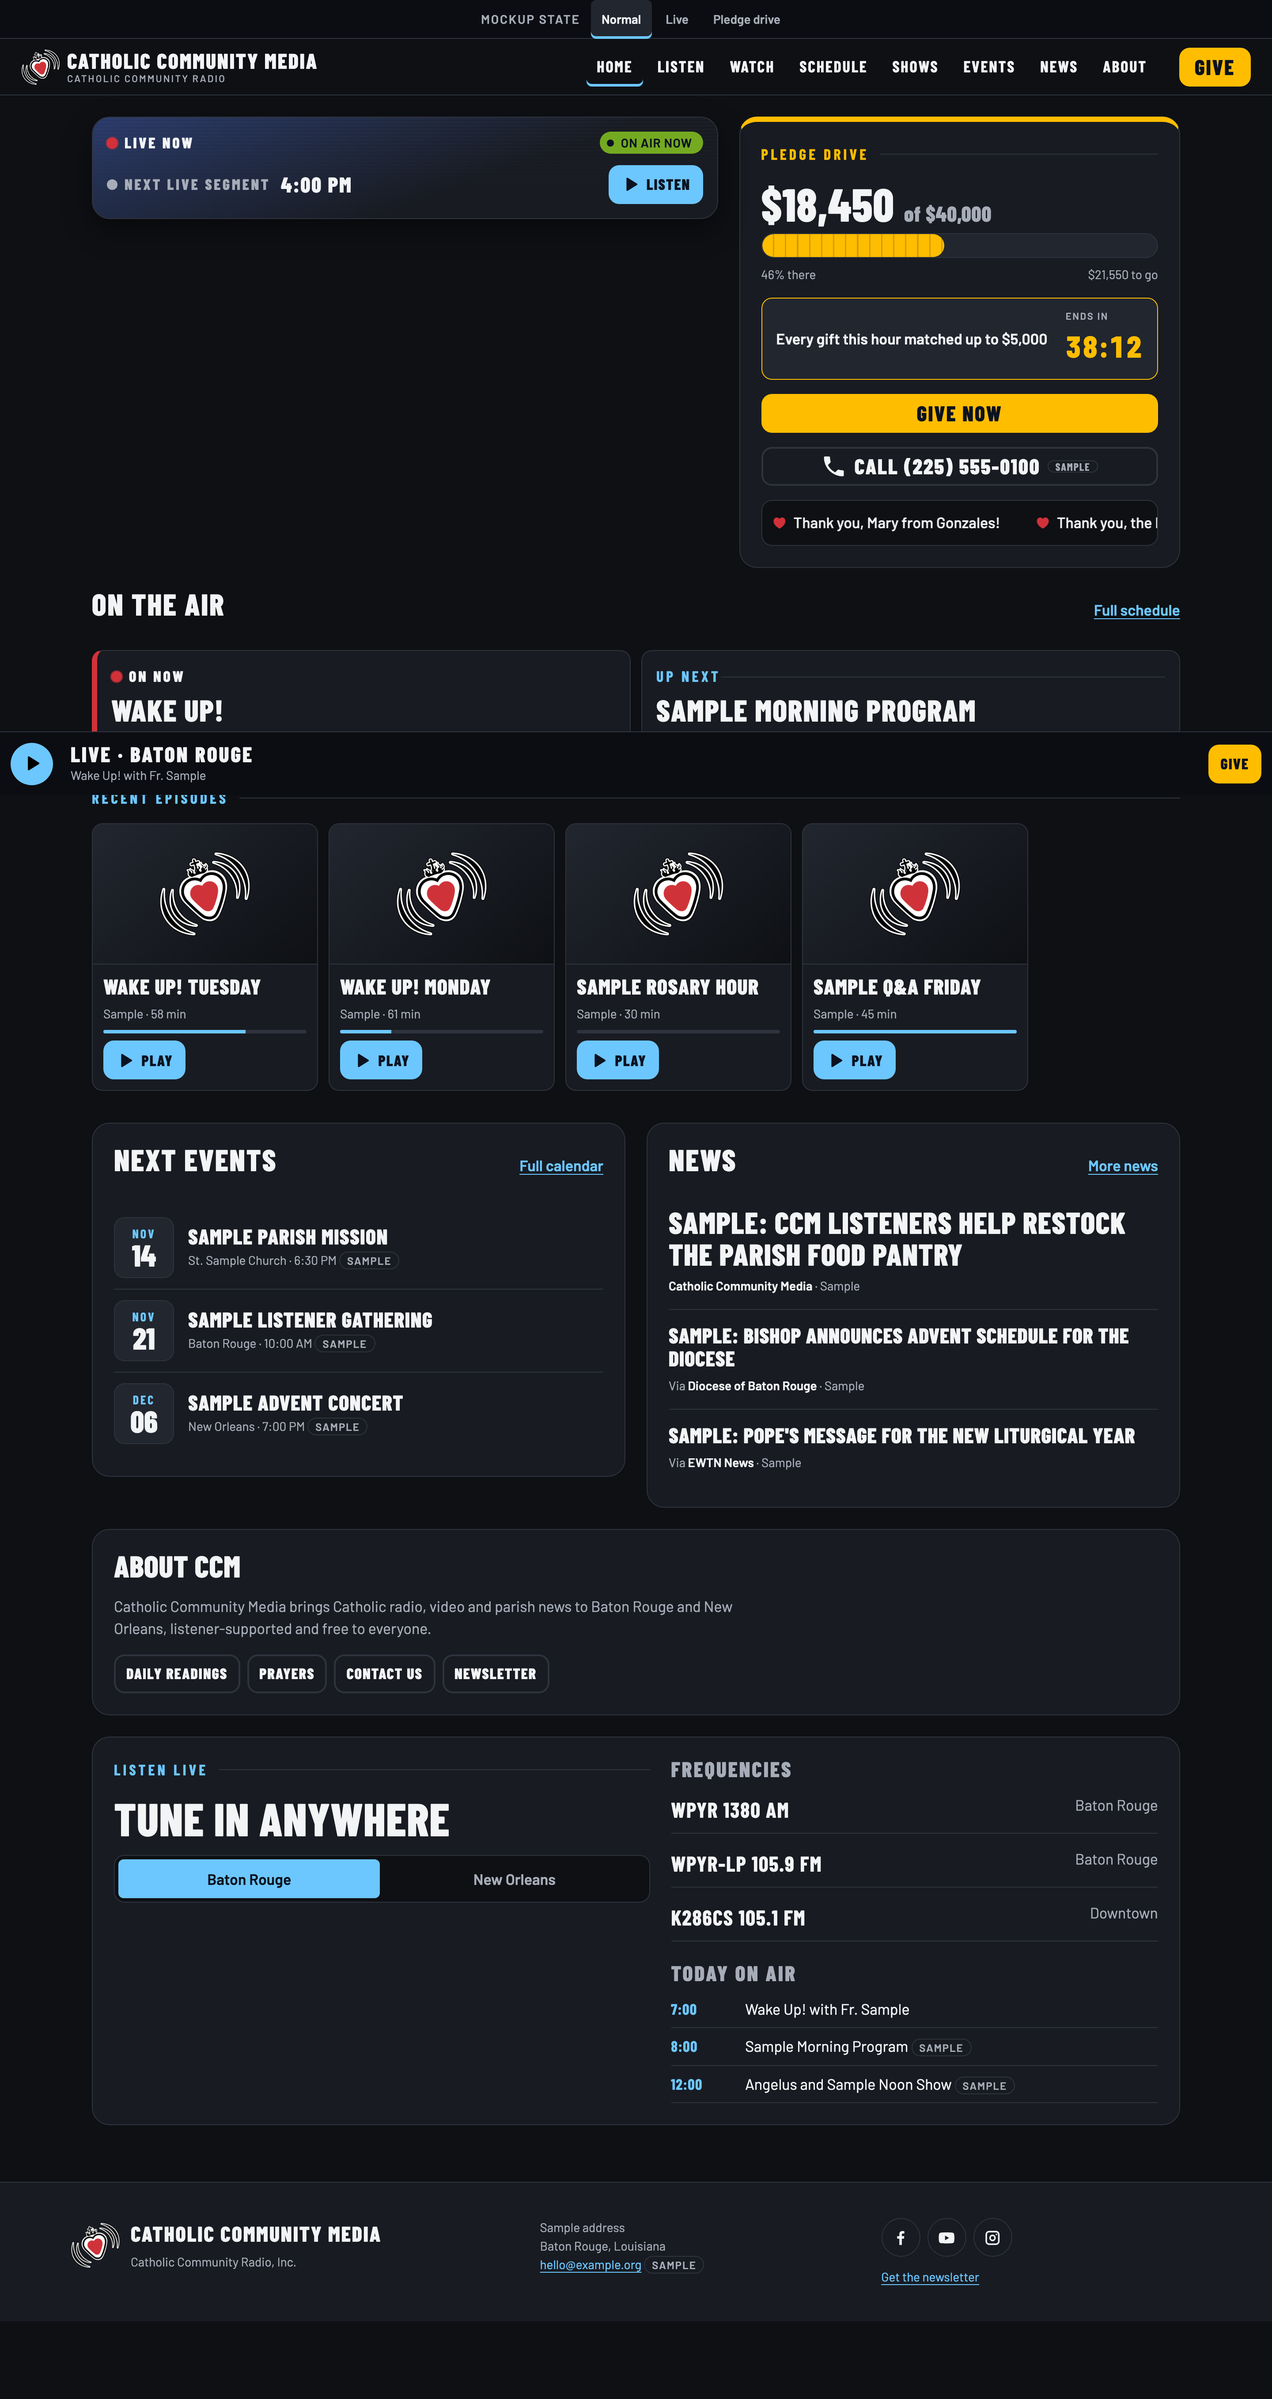
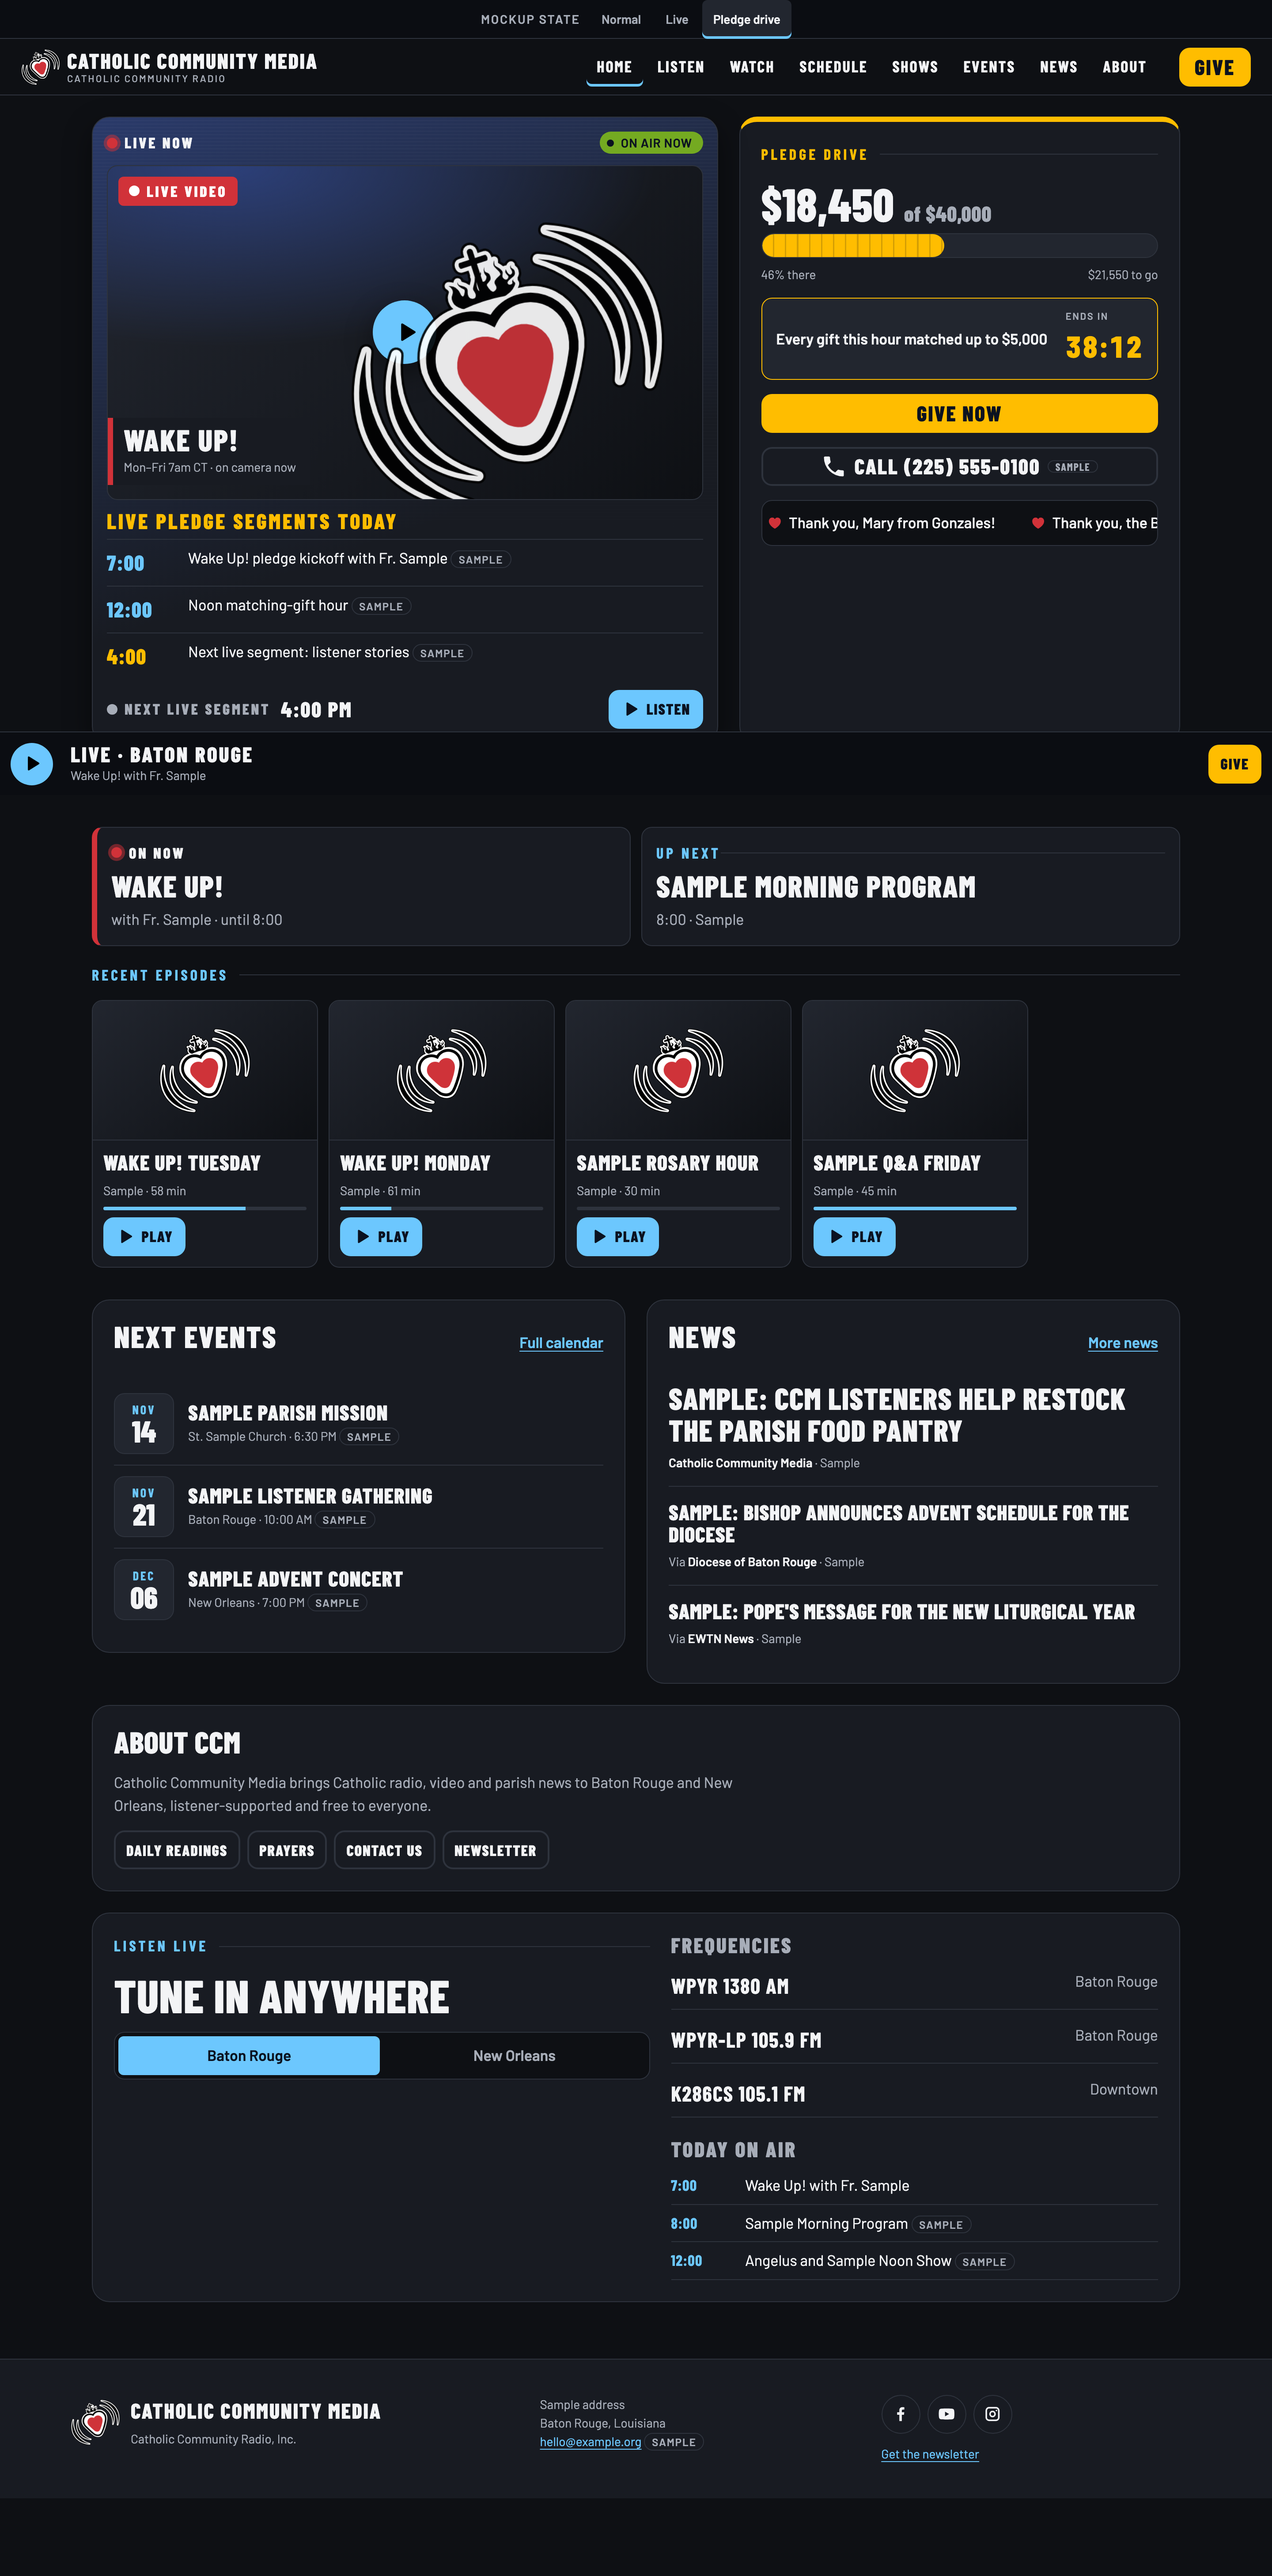
fix(design): direction A pledge layout fill, mockup-local tokens, shots via state switch

diff --git a/public/design/a-studio/index.html b/public/design/a-studio/index.html
@@ -29,7 +29,6 @@
   --color-player-bg: #0b0d12;
   --color-player-text: #f3f4f6;
   --color-player-focus: #6cc7fe;
-  --color-navy: #3954a5;
   --font-heading: "Barlow Condensed", "Arial Narrow", "Helvetica Neue", Arial, sans-serif;
   --font-body: "Barlow", system-ui, -apple-system, "Segoe UI", Roboto, sans-serif;
   --radius-sm: 0.375rem;
@@ -50,6 +49,10 @@
   --shadow-1: 0 0.75rem 2rem rgb(0 0 0 / 0.45);
   --header-h: 4rem;
   --player-h: 4.5rem;
+}
+/* Mockup-local tokens (not part of the contract) */
+html {
+  --color-navy: #3954a5;
   --switch-h: 2.75rem;
 }
 
@@ -192,13 +195,18 @@ main > section { min-width: 0; }
 .next-seg b { font-family: var(--font-heading); font-size: var(--step-1); text-transform: uppercase; letter-spacing: 0.06em; font-weight: 800; }
 .compact-play { display: none; }
 
-html[data-state="live"] .video-card { display: block; }
+html[data-state="live"] .video-card, html[data-state="pledge"] .video-card { display: block; }
+.pledge-sched { display: none; }
+html[data-state="pledge"] .pledge-sched { display: block; }
+.pledge-sched h3 { font-size: var(--step-1); text-transform: uppercase; letter-spacing: 0.1em; color: var(--color-give); margin-bottom: var(--space-2); }
+.pledge-sched li { display: grid; grid-template-columns: 5rem 1fr; gap: var(--space-3); padding: var(--space-2) 0; border-top: 1px solid var(--color-border); }
+.pledge-sched time { font-family: var(--font-heading); font-weight: 800; letter-spacing: 0.04em; color: var(--color-accent); font-size: var(--step-1); }
+.pledge-sched li.is-next time { color: var(--color-give); }
 html[data-state="pledge"] .live-card { padding: var(--space-4); gap: var(--space-3); }
 html[data-state="pledge"] .live-title, html[data-state="pledge"] .live-sub, html[data-state="pledge"] .play-big { display: none; }
 html[data-state="pledge"] .next-seg { display: flex; }
 html[data-state="pledge"] .compact-play { display: inline-flex; }
 html[data-state="pledge"] .live-top .market-chip { display: none; }
-html[data-state="pledge"] [data-section="live"] .live-card { height: auto; }
 .next-seg b { white-space: nowrap; }
 
 /* Give */
@@ -450,6 +458,15 @@ html[data-state="pledge"] .give-panel { border-top-width: 6px; }
         <span><span data-play-label>Play live radio</span><small data-market-line>Baton Rouge &middot; WPYR 1380 AM</small></span>
         <span class="meter" aria-hidden="true" style="margin-left:auto"><i></i><i></i><i></i><i></i><i></i></span>
       </button>
+
+      <div class="pledge-sched">
+        <h3>Live pledge segments today</h3>
+        <ul>
+          <li><time>7:00</time><span>Wake Up! pledge kickoff with Fr. Sample <span class="tag">Sample</span></span></li>
+          <li><time>12:00</time><span>Noon matching-gift hour <span class="tag">Sample</span></span></li>
+          <li class="is-next"><time>4:00</time><span>Next live segment: listener stories <span class="tag">Sample</span></span></li>
+        </ul>
+      </div>
 
       <div class="next-seg">
         <span class="lamp" style="color:var(--color-text-muted)"><i aria-hidden="true" style="background:var(--color-text-muted);animation:none;box-shadow:none"></i>Next live segment</span>

diff --git a/scripts/design-shots.ts b/scripts/design-shots.ts
@@ -12,7 +12,10 @@ for (const [name, width, height] of [['phone', 390, 844], ['desktop', 1440, 900]
   const page = await context.newPage()
   for (const state of ['normal', 'pledge'] as const) {
     await page.goto(`${base}/design/${id}/index.html`)
-    await page.evaluate((s) => document.documentElement.setAttribute('data-state', s), state)
+    if (state !== 'normal') {
+      await page.locator('[data-ui="state-switch"]').getByRole('button', { name: 'Pledge drive', exact: true }).click()
+      await page.waitForSelector(`html[data-state="${state}"]`)
+    }
     await page.screenshot({ path: `docs/design/${id}-${name}-${state}.png`, fullPage: true })
   }
   await context.close()

diff --git a/docs/design/directions.md b/docs/design/directions.md
@@ -32,7 +32,7 @@ Each direction is a static mockup at `public/design/<id>/index.html`. Screenshot
 | --shadow-1 | 0 0.75rem 2rem rgb(0 0 0 / 0.45) |
 | --header-h / --player-h | 4rem / 4.5rem |
 
-(Extra, decorative: `--color-navy` #3954a5 and `--switch-h` 2.75rem for the mockup-state bar.)
+(Mockup-local, set on the `html` selector and not in `:root`: `--color-navy` #3954a5 and `--switch-h` 2.75rem for the mockup-state bar.)
 
 **Where each brand color is used**
 
